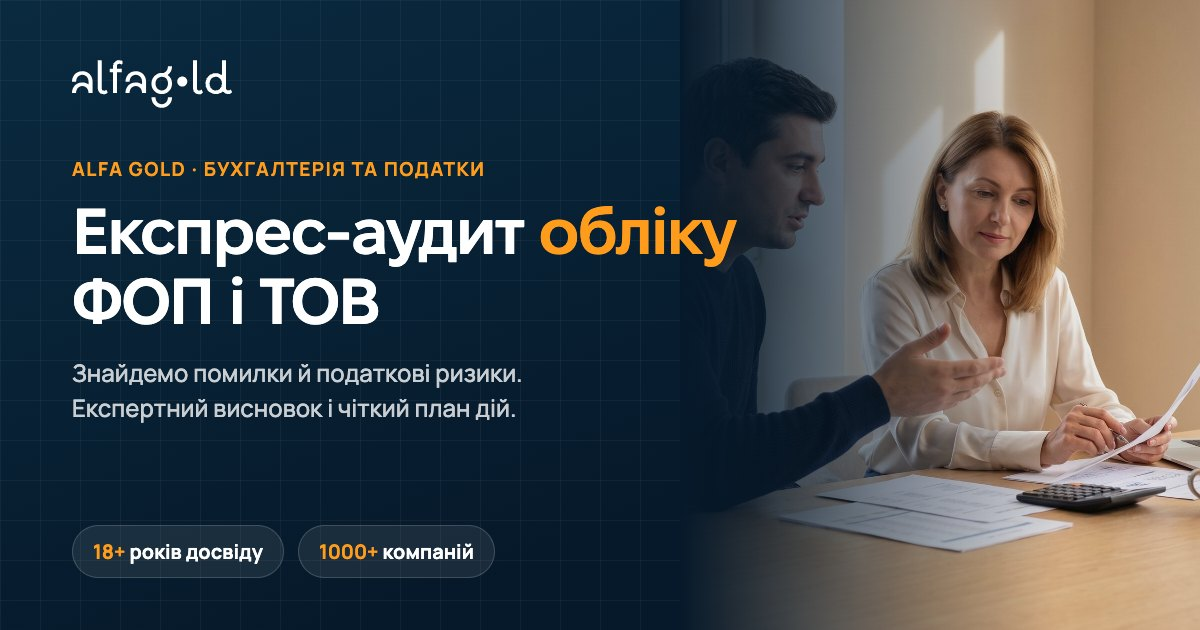
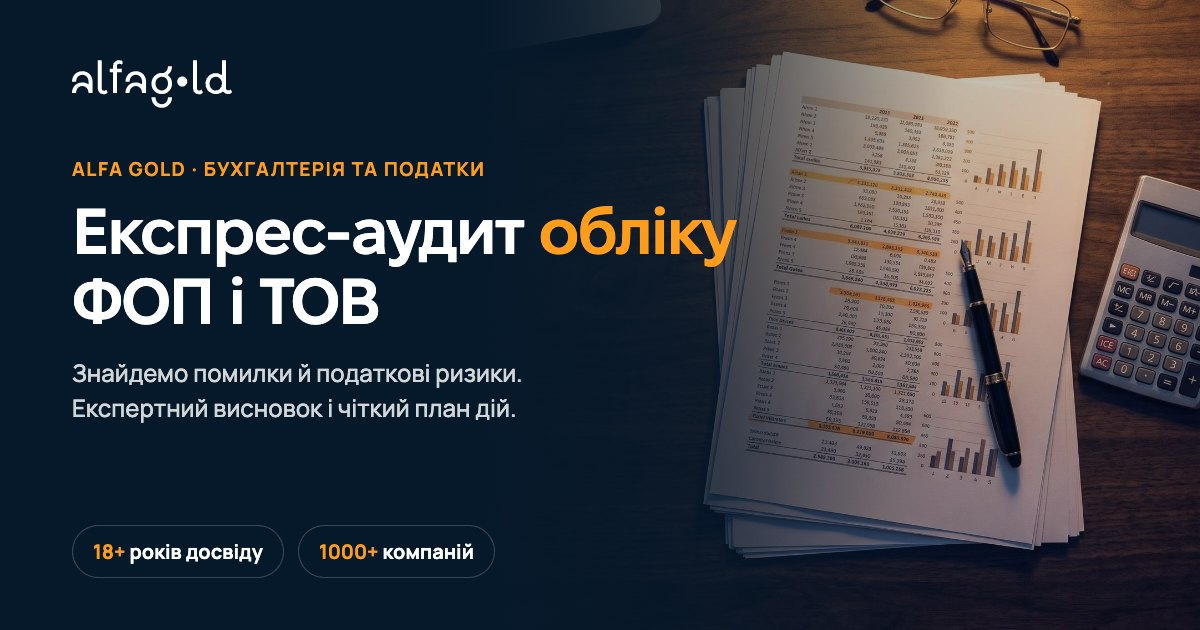
New desk-scene hero, hero copy and card alignment
- Hero background: dark desk with financial printouts (2K, desktop + phone)
- Social preview image updated to match the new hero
- Hero copy: new line under the heading; remove cost note and quote icon
- Audience cards: titles and descriptions aligned per row; fix overflow at 1181-1240px
- ФОП card: mention year-to-date income
- Skip link fully hidden until keyboard focus

diff --git a/index.html b/index.html
@@ -225,9 +225,11 @@ h1, h2, h3, h4 { font-family: var(--font-head); font-weight: 500; color: var(--t
   color: var(--navy);
   font-weight: 700;
   transform: translateY(-160%);
-  transition: transform .3s var(--ease-out);
+  opacity: 0;
+  pointer-events: none;
+  transition: transform .3s var(--ease-out), opacity .2s ease;
 }
-.skip-link:focus-visible { transform: none; outline: 3px solid var(--navy); outline-offset: 2px; }
+.skip-link:focus, .skip-link:focus-visible { transform: none; opacity: 1; pointer-events: auto; outline: 3px solid var(--navy); outline-offset: 2px; }
 .sr-only { position: absolute; width: 1px; height: 1px; padding: 0; margin: -1px; overflow: hidden; clip: rect(0 0 0 0); white-space: nowrap; border: 0; }
 
 /* Grain texture for dark surfaces */
@@ -462,7 +464,7 @@ h1, h2, h3, h4 { font-family: var(--font-head); font-weight: 500; color: var(--t
 }
 .hero__media { position: absolute; inset: 0; }
 .hero__media picture { position: absolute; inset: 0; }
-.hero__media img { width: 100%; height: 100%; object-fit: cover; object-position: 60% 30%; transform: scale(1.04); animation: heroZoom 1.8s var(--ease-out) forwards; }
+.hero__media img { width: 100%; height: 100%; object-fit: cover; object-position: 0% 40%; transform: scale(1.04); animation: heroZoom 1.8s var(--ease-out) forwards; }
 .hero__tint { position: absolute; inset: 0; background: rgba(10, 42, 64, .35); mix-blend-mode: multiply; }
 .hero__shade {
   position: absolute; inset: 0;
@@ -506,8 +508,6 @@ h1, h2, h3, h4 { font-family: var(--font-head); font-weight: 500; color: var(--t
 @keyframes underline { to { transform: scaleX(1); } }
 .hero__text { margin-top: var(--s-3); max-width: 640px; font-size: 19px; line-height: 1.65; color: rgba(255, 255, 255, .82); }
 .hero__actions { display: flex; flex-wrap: wrap; gap: var(--s-2); margin-top: var(--s-4); }
-.hero__note { display: flex; align-items: center; gap: 10px; margin-top: var(--s-3); font-size: 14px; color: rgba(255, 255, 255, .7); }
-.hero__note .icon { width: 18px; height: 18px; color: var(--gold); }
 
 .hero-card {
   padding: 8px;
@@ -527,8 +527,7 @@ h1, h2, h3, h4 { font-family: var(--font-head); font-weight: 500; color: var(--t
 .check { display: grid; place-items: center; width: 22px; height: 22px; border-radius: 50%; background: var(--gold-soft); color: var(--gold-hover); margin-top: 1px; }
 .check .icon { width: 13px; height: 13px; stroke-width: 2.5; }
 .hero-card__foot { padding: 18px 24px 22px; border-top: 1px solid var(--line); }
-.quote-mark { width: 26px; height: 20px; color: var(--navy); }
-.hero-card__quote { margin-top: 10px; font-size: 15px; line-height: 1.55; font-weight: 600; }
+.hero-card__quote { margin-top: 0; font-size: 15px; line-height: 1.55; font-weight: 600; }
 .hero-card__meta { display: flex; align-items: center; gap: 10px; margin-top: 14px; font-size: 13px; color: var(--muted); }
 
 
@@ -559,7 +558,7 @@ h1, h2, h3, h4 { font-family: var(--font-head); font-weight: 500; color: var(--t
 .stat-tile span { font-size: 14px; line-height: 1.35; color: var(--muted); font-weight: 500; }
 
 /* ---------- Who needs (cards grid) ---------- */
-.needs-grid { display: grid; grid-template-columns: repeat(4, 1fr); gap: var(--s-2); margin-top: var(--s-6); }
+.needs-grid { display: grid; grid-template-columns: repeat(4, minmax(0, 1fr)); gap: var(--s-2); margin-top: var(--s-6); }
 .need-card {
   display: flex;
   flex-direction: column;
@@ -576,6 +575,16 @@ h1, h2, h3, h4 { font-family: var(--font-head); font-weight: 500; color: var(--t
 .nowrap { white-space: nowrap; }
 .need-card h3 { text-wrap: balance; margin-top: auto; padding-top: var(--s-5); font-size: 24px; line-height: 30px; letter-spacing: -.02em; font-weight: 600; }
 .need-card p { margin-top: 12px; font-size: 16px; line-height: 1.55; color: var(--muted); }
+/* Desktop: cards in a row share icon / title / description rows, so titles end and descriptions start on the same line */
+@media (min-width: 901px) {
+  @supports (grid-template-rows: subgrid) {
+    .needs-grid { grid-auto-rows: auto; }
+    .need-card { display: grid; grid-row: span 3; grid-template-rows: subgrid; row-gap: 0; min-height: 0; }
+    .need-card__icon { margin-bottom: 72px; }
+    .need-card h3 { align-self: end; margin-top: 0; padding-top: 0; }
+    .need-card p { align-self: start; }
+  }
+}
 .needs-cta { display: flex; flex-wrap: wrap; align-items: center; justify-content: center; gap: var(--s-3); margin-top: var(--s-5); }
 .needs-cta p { color: var(--muted); font-size: 17px; }
 
@@ -1142,6 +1151,9 @@ textarea.input { height: 120px; padding: 18px 22px; border-radius: var(--r-lg); 
 
 /* ---------- Responsive ---------- */
 @media (max-width: 1320px) {
+  .need-card { padding: 24px; }
+  .need-card h3 { font-size: 20px; line-height: 26px; }
+  .need-card p { font-size: 15px; }
   .split { grid-template-columns: minmax(0, 1fr) minmax(0, 1fr); gap: var(--s-6); }
   .nav { gap: 22px; }
 }
@@ -1245,8 +1257,6 @@ textarea.input { height: 120px; padding: 18px 22px; border-radius: var(--r-lg); 
   .hero__text { margin-top: 18px; font-size: 16px; line-height: 1.6; }
   .hero__actions { flex-direction: column; margin-top: var(--s-4); }
   .hero__actions .btn { width: 100%; }
-  .hero__note { align-items: flex-start; font-size: 13px; line-height: 1.5; }
-  .hero__note .icon { margin-top: 1px; }
   .hl { white-space: normal; }
   .hero-card { max-width: none; border-radius: 24px; }
   .hero-card__body { border-radius: 18px; }
@@ -1427,7 +1437,6 @@ textarea.input { height: 120px; padding: 18px 22px; border-radius: var(--r-lg); 
   <symbol id="i-calendar" viewBox="0 0 24 24"><rect x="3" y="5" width="18" height="16" rx="2"/><path d="M16 3v4M8 3v4M3 10h18"/></symbol>
   <symbol id="i-shield" viewBox="0 0 24 24"><path d="M12 22s8-4 8-10V5l-8-3-8 3v7c0 6 8 10 8 10z"/><path d="m9 12 2 2 4-4"/></symbol>
   <symbol id="i-mail" viewBox="0 0 24 24"><rect x="3" y="5" width="18" height="14" rx="2"/><path d="m3 7 9 6 9-6"/></symbol>
-  <symbol id="i-quote" viewBox="0 0 26 20"><path d="M0 20V11.4C0 4.9 3 1.1 9.4 0l1 2.8C7 4 5.5 6.2 5.3 9.5H10V20H0zm15 0V11.4C15 4.9 18 1.1 24.4 0l1 2.8C22 4 20.5 6.2 20.3 9.5H25V20H15z"/></symbol>
   <symbol id="i-telegram" viewBox="0 0 24 24"><path d="M21.9 4.3 18.8 19c-.2 1-.9 1.3-1.7.8l-4.7-3.5-2.3 2.2c-.2.2-.5.4-1 .4l.3-4.8 8.7-7.9c.4-.3-.1-.5-.6-.2L6.8 12.8l-4.6-1.4c-1-.3-1-1 .2-1.5l18-6.9c.9-.3 1.6.2 1.5 1.3z"/></symbol>
   <symbol id="i-instagram" viewBox="0 0 24 24"><rect x="3" y="3" width="18" height="18" rx="5"/><circle cx="12" cy="12" r="4"/><path d="M17.5 6.5h.01"/></symbol>
   <symbol id="i-facebook" viewBox="0 0 24 24"><path d="M15 3h-2.5A4.5 4.5 0 0 0 8 7.5V10H5.5v4H8v7h4v-7h3l.5-4H12V7.8c0-.5.3-.8.8-.8H15V3z"/></symbol>
@@ -1493,12 +1502,11 @@ textarea.input { height: 120px; padding: 18px 22px; border-radius: var(--r-lg); 
   <div class="container hero__inner">
     <div>
       <h1 id="hero-title" class="hero-in"><span class="nowrap">Експрес-аудит</span> <span class="hl">обліку</span> ФОП&nbsp;і&nbsp;ТОВ</h1>
-      <p class="hero__text hero-in hero-in--3">Проведемо експрес-аудит бухгалтерського та податкового обліку ФОП або ТОВ, визначимо помилки й ризики та підготуємо експертний висновок із конкретними рекомендаціями.</p>
+      <p class="hero__text hero-in hero-in--3">Перевіримо, чи правильно ведеться облік твого бізнесу</p>
       <div class="hero__actions hero-in hero-in--4">
         <a class="btn btn--lg" href="#order">Замовити експрес-аудит <svg class="icon"><use href="#i-arrow-ur"/></svg></a>
         <a class="btn btn--lg btn--ghost" href="#process">Як проходить аудит</a>
       </div>
-      <p class="hero__note hero-in hero-in--5"><svg class="icon"><use href="#i-info"/></svg>Вартість і строки визначаємо після попередньої оцінки обсягу обліку та періоду перевірки.</p>
     </div>
 
     <aside class="hero-card hero-in hero-in--5" aria-label="Що ти зрозумієш після аудиту">
@@ -1515,7 +1523,6 @@ textarea.input { height: 120px; padding: 18px 22px; border-radius: var(--r-lg); 
           </ul>
         </div>
         <div class="hero-card__foot">
-          <svg class="quote-mark icon--fill"><use href="#i-quote"/></svg>
           <p class="hero-card__quote">Відсутність податкового боргу не означає, що в обліку немає помилок.</p>
           <p class="hero-card__meta">— Експерти Alfa Gold</p>
         </div>
@@ -1616,7 +1623,7 @@ textarea.input { height: 120px; padding: 18px 22px; border-radius: var(--r-lg); 
         <div class="format-card__body">
           <span class="chip">ФОП <small>фізична особа-підприємець</small></span>
           <h3>Експрес-аудит ФОП</h3>
-          <p>Перевіряємо реєстраційні дані, систему оподаткування, звітність і сплату податків — з урахуванням ризиків саме твого виду діяльності.</p>
+          <p>Перевіряємо реєстраційні дані, систему оподаткування, суму доходів від початку року, звітність і сплату податків — з урахуванням ризиків саме твого виду діяльності.</p>
           <ul class="tags" aria-label="Що перевіряємо у ФОП">
             <li>Реєстраційні дані та КВЕДи</li>
             <li>Система оподаткування</li>
